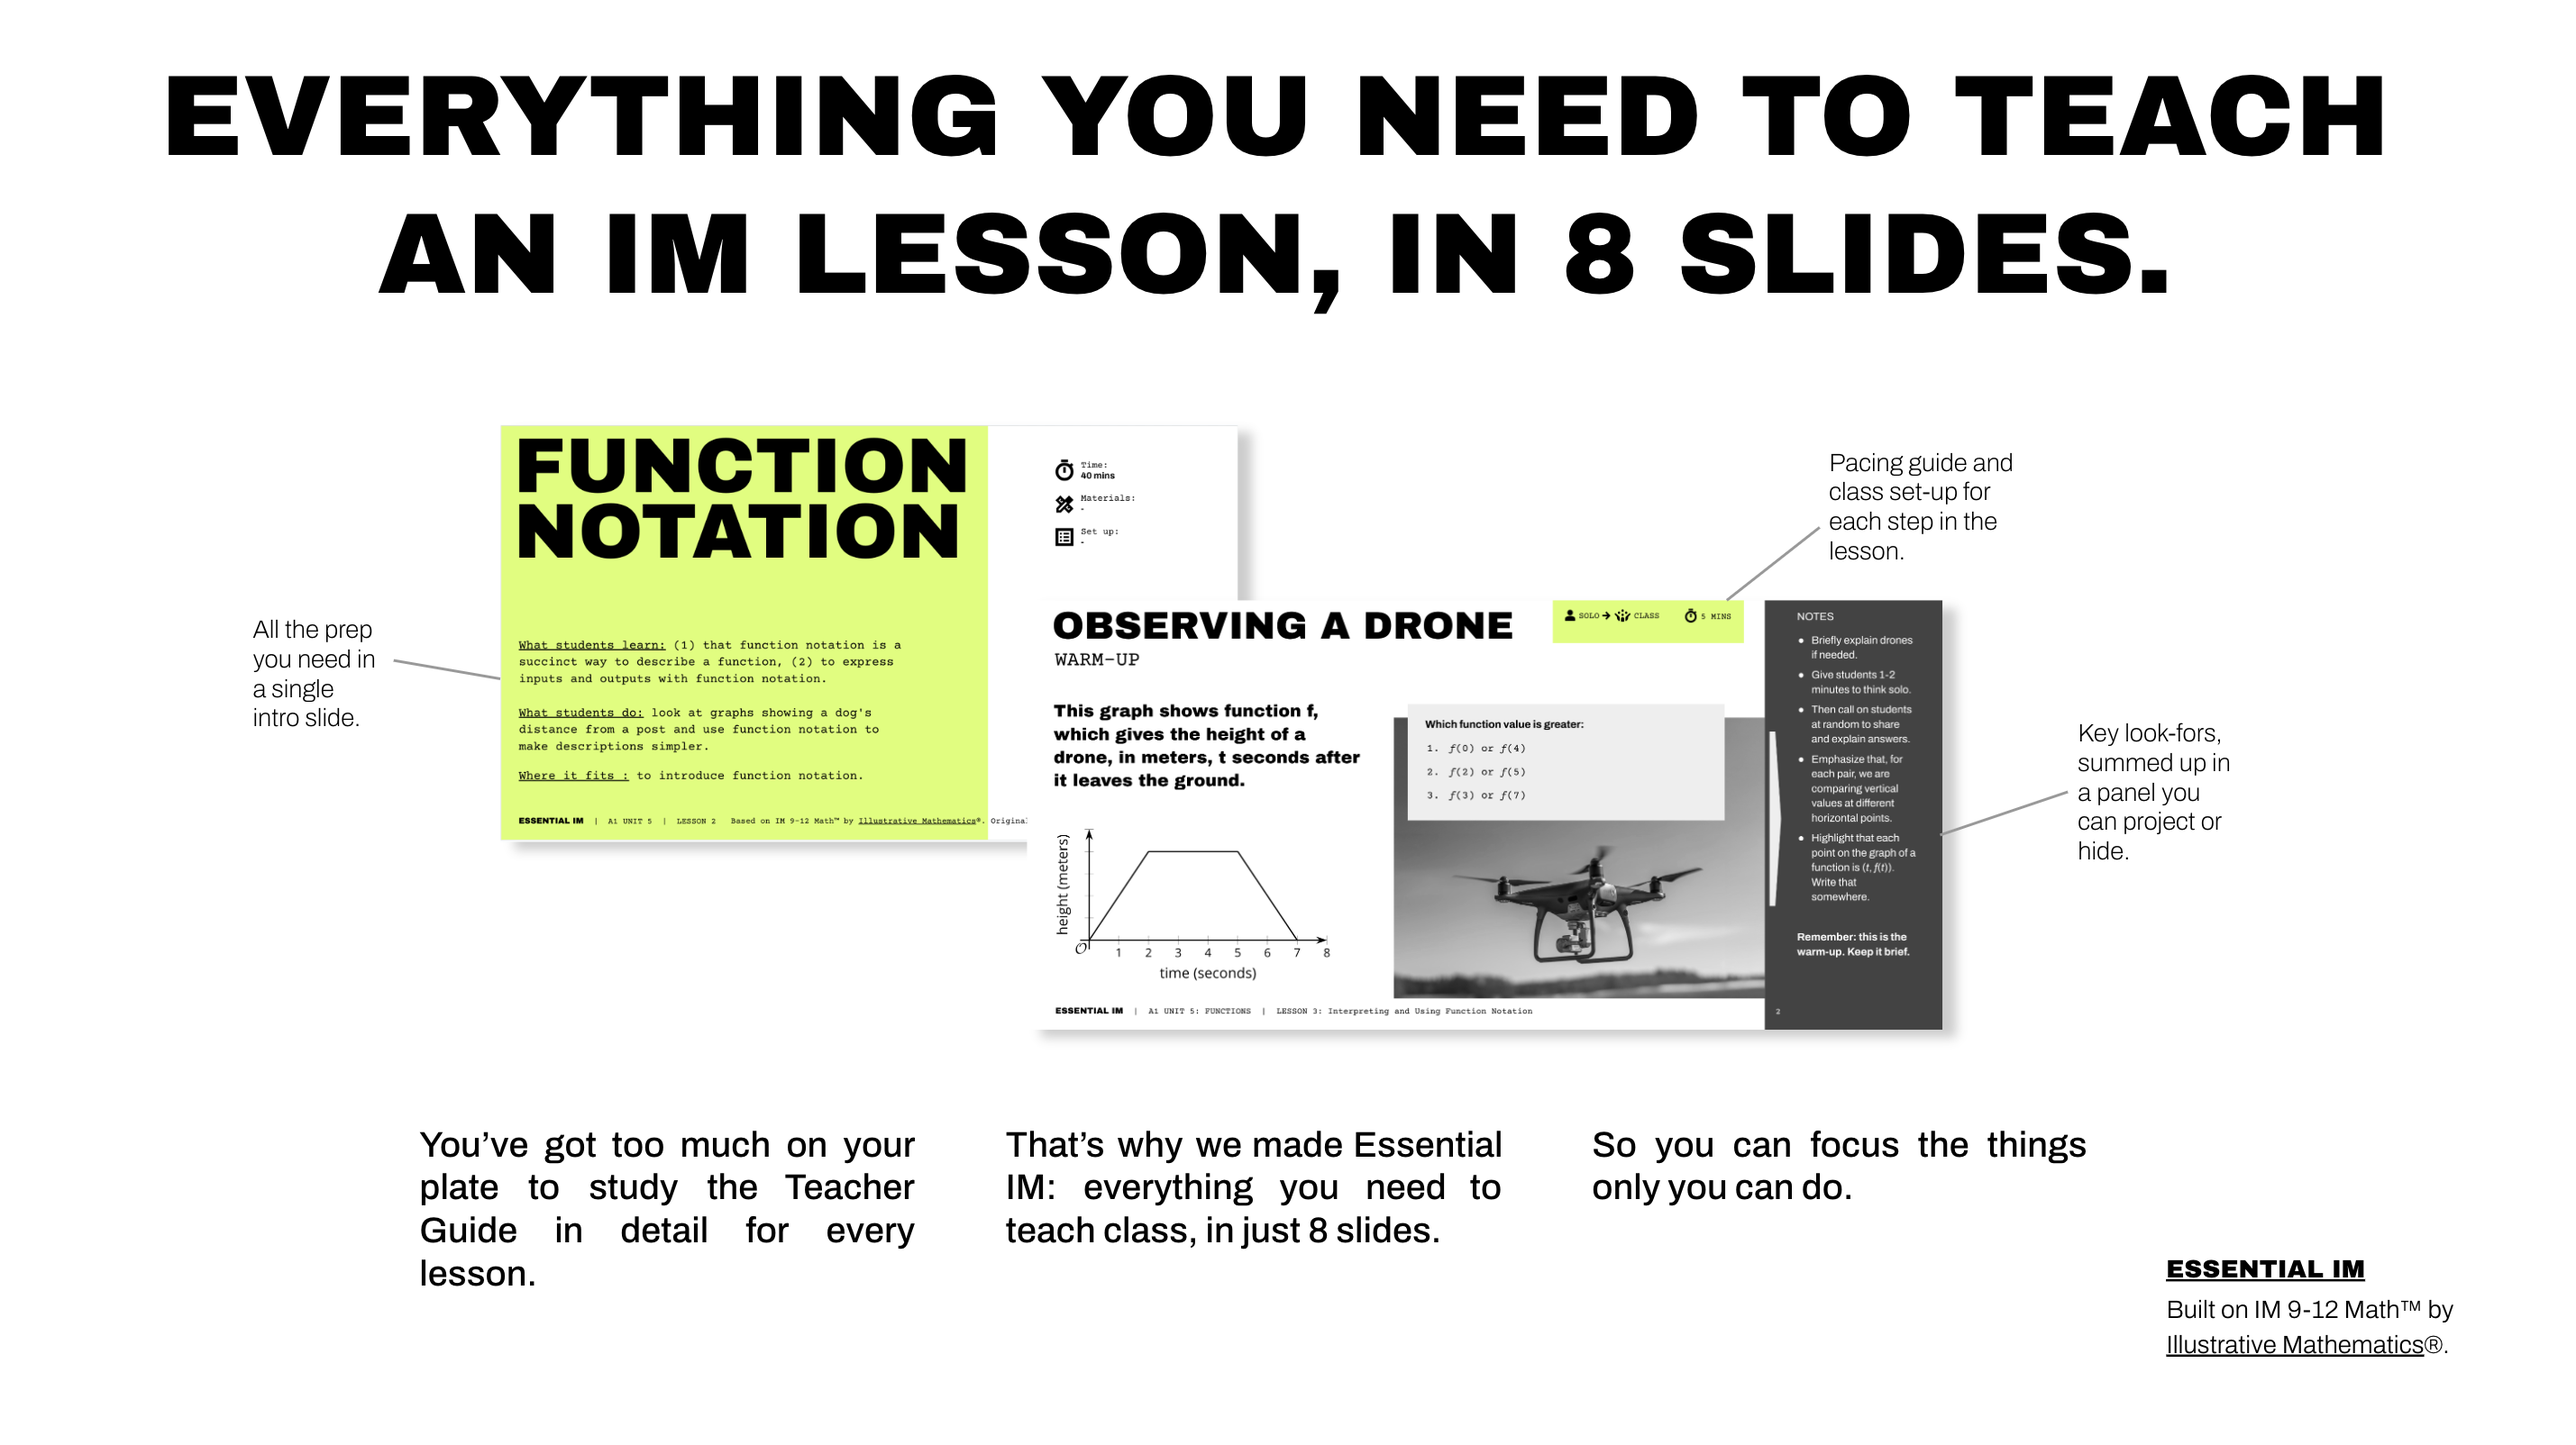
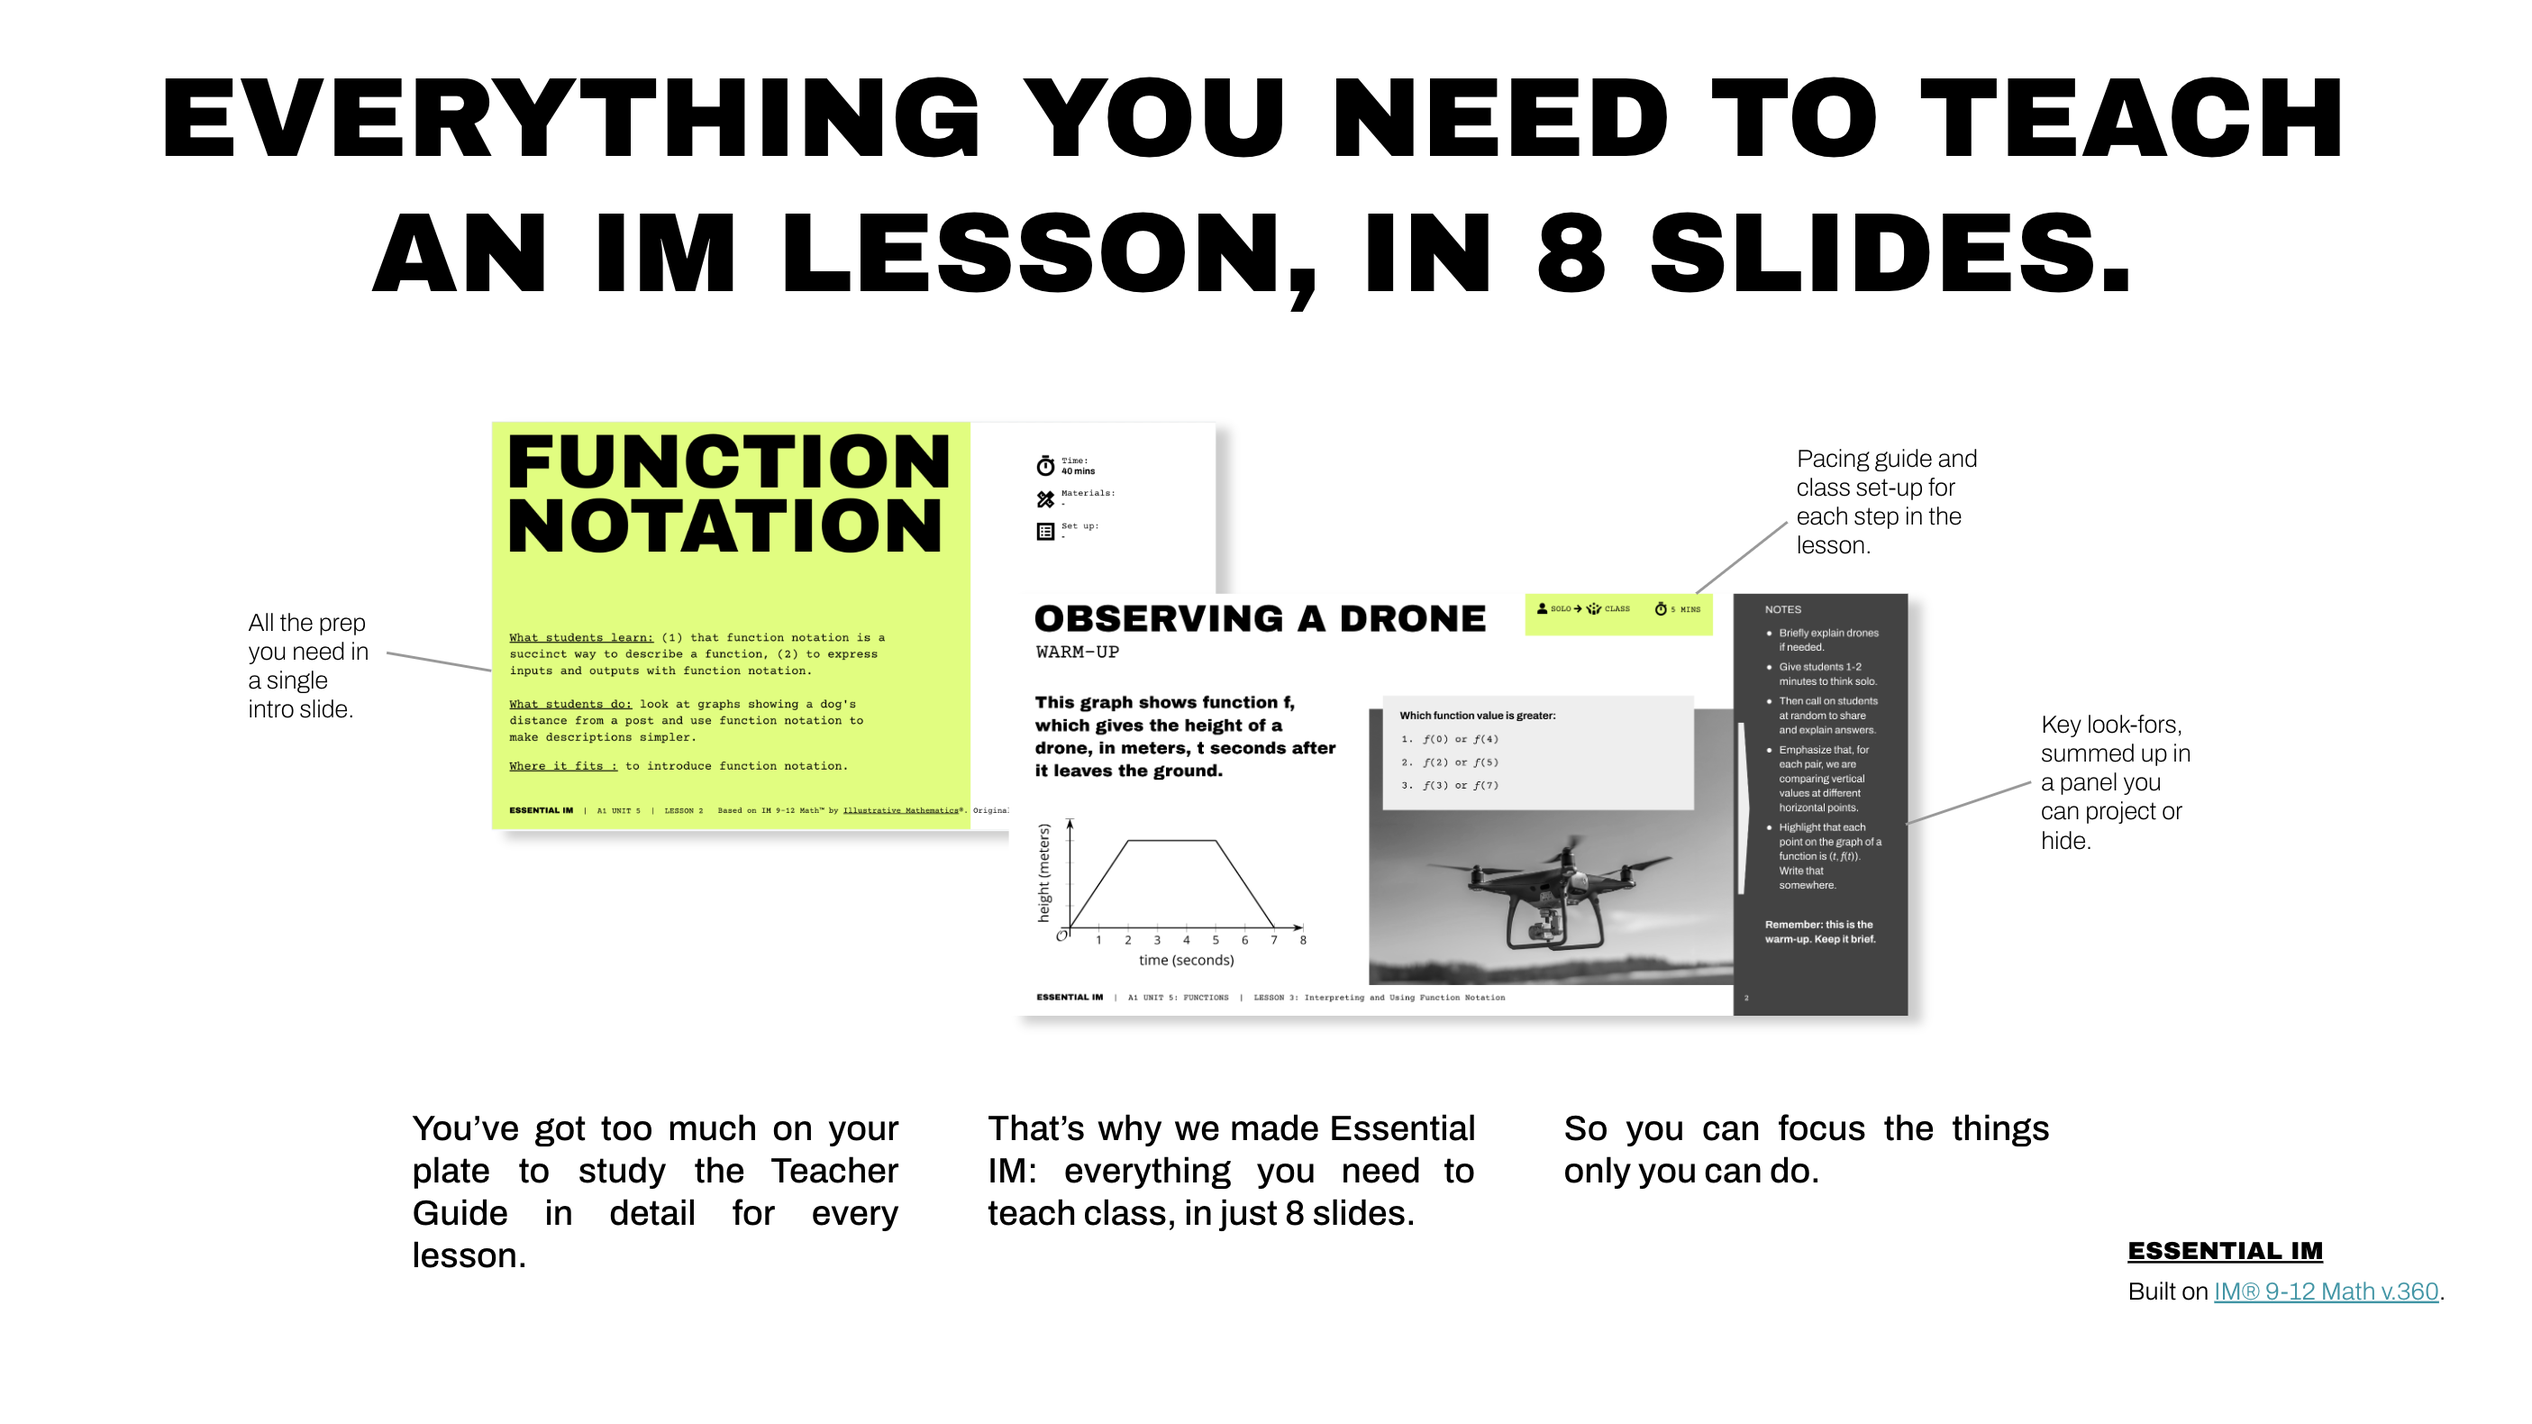
TMs and Rs

diff --git a/index.html b/index.html
@@ -1,6 +1,15 @@
 <!DOCTYPE html>
 <html lang="en">
 <head>
+    <!-- Google tag (gtag.js) -->
+    <script async src="https://www.googletagmanager.com/gtag/js?id=G-R6J092MDTF"></script>
+    <script>
+      window.dataLayer = window.dataLayer || [];
+      function gtag(){dataLayer.push(arguments);}
+      gtag('js', new Date());
+
+      gtag('config', 'G-R6J092MDTF');
+    </script>
     <meta charset="UTF-8">
     <meta name="viewport" content="width=device-width, initial-scale=1.0">
     <meta http-equiv="X-UA-Compatible" content="ie=edge">
@@ -41,7 +50,7 @@
       <br>
       
       <!-- big image -->
-      <a href="https://drive.google.com/drive/folders/12IpHfe5PyGQYQ1_QUJMrI_HX6dN11UJd" aria-label="Drive Link" target="_blank"><img src = "assets/demoSlide.png" alt="Demo Slide" class="responsive-slide" style="margin: 20px 0;"></a>
+      <a href="https://drive.google.com/drive/folders/12IpHfe5PyGQYQ1_QUJMrI_HX6dN11UJd" aria-label="Drive Link" target="_blank"><img src = "assets/demoslide.png" alt="Demo Slide" class="responsive-slide" style="margin: 20px 0;"></a>
       
       <!-- second line -->
       <br>
@@ -182,7 +191,7 @@
         
         <section id="about">
           <h2>About Essential IM</h2>
-          <p>The <b>Essential IM Podcast</b> is a resource for teaching <a href="https://accessim.org/9-12-aga/algebra-1?a=teacher" target="_blank">IM Algebra 1&trade;</a>. Listen to an overview of the lesson you're about to teach. Each episode was automatically generated using IM's teacher guide and NotebookLM’s Audio Overview feature. Try one out!<br><span class="spacer"></span>
+          <p>The <b>Essential IM Podcast</b> is a resource for teaching <a href="https://accessim.org/9-12-aga/algebra-1?a=teacher" target="_blank">IM&reg; Algebra 1</a>. Listen to an overview of the lesson you're about to teach. Each episode was automatically generated using IM Math v.360's teacher guide and NotebookLM’s Audio Overview feature. Try one out!<br><span class="spacer"></span>
               The <a href="https://drive.google.com/drive/folders/12IpHfe5PyGQYQ1_QUJMrI_HX6dN11UJd" target="_blank"><b>Essential IM Slides</b></a> contain everything you need to teach an IM lesson in 8 slides. Currently, the Algebra 1 Functions unit is available as a pilot. Share your contact info above to get updates.</p>
         </section>
 
@@ -190,7 +199,7 @@
     </main>
 
     <footer>
-        <p>&copy; 2024 Essential Teaching<br>IM Algebra 1&trade; is &copy; 2024 Illustrative Mathematics®. Licensed under CC BY-NC 4.0.</p>
+        <p>&copy; 2024 Essential Teaching</p>
     </footer>
 </body>
 </html>
